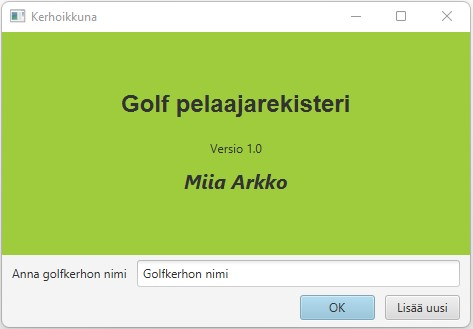
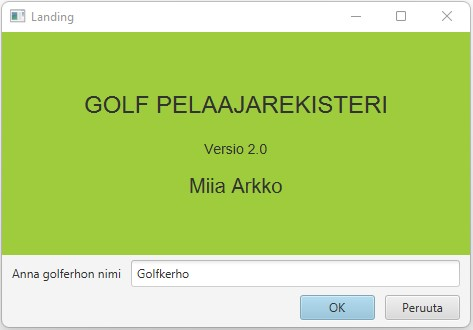
Lisatty .dat tiedostot seka kuva

diff --git a/src/fxKerho/muokkaajasen.css b/src/fxKerho/muokkaajasen.css
@@ -1,0 +1,1 @@
+/* JavaFX CSS - Leave this comment until you have at least create one rule which uses -fx-Property */

diff --git a/src/fxKerho/landing.css b/src/fxKerho/landing.css
@@ -1,0 +1,3 @@
+.vaaleaVihrea {
+	-fx-background-color: #9FCC3D;
+}

diff --git a/src/fxKerho/MuokkaaJasenMain.java b/src/fxKerho/MuokkaaJasenMain.java
@@ -1,0 +1,38 @@
+package fxKerho;
+
+import javafx.application.Application;
+import javafx.stage.Stage;
+import javafx.scene.Scene;
+import javafx.scene.layout.Pane;
+import javafx.fxml.FXMLLoader;
+
+
+/**
+ * @author miiaa
+ * @version 31.1.2023
+ *
+ */
+public class MuokkaaJasenMain extends Application {
+    @Override
+    public void start(Stage primaryStage) {
+        try {
+            FXMLLoader ldr = new FXMLLoader(getClass().getResource("MuokkaaJasenGUIView.fxml"));
+            final Pane root = ldr.load();
+            //final MuokkaaJasenGUIController muokkaajasenCtrl = (MuokkaaJasenGUIController) ldr.getController();
+            Scene scene = new Scene(root);
+            scene.getStylesheets().add(getClass().getResource("muokkaajasen.css").toExternalForm());
+            primaryStage.setScene(scene);
+            primaryStage.setTitle("MuokkaaJasen");
+            primaryStage.show();
+        } catch(Exception e) {
+            e.printStackTrace();
+        }
+    }
+
+    /**
+     * @param args Ei kaytossa
+     */
+    public static void main(String[] args) {
+        launch(args);
+    }
+}

diff --git a/src/fxKerho/LandingMain.java b/src/fxKerho/LandingMain.java
@@ -1,0 +1,38 @@
+package fxKerho;
+
+import javafx.application.Application;
+import javafx.stage.Stage;
+import javafx.scene.Scene;
+import javafx.scene.layout.Pane;
+import javafx.fxml.FXMLLoader;
+
+
+/**
+ * @author Miia Arkko
+ * @version 31.1.2023
+ *
+ */
+public class LandingMain extends Application {
+    @Override
+    public void start(Stage primaryStage) {
+        try {
+            FXMLLoader ldr = new FXMLLoader(getClass().getResource("LandingGUIView.fxml"));
+            final Pane root = ldr.load();
+            //final LandingGUIController landingCtrl = (LandingGUIController) ldr.getController();
+            Scene scene = new Scene(root);
+            scene.getStylesheets().add(getClass().getResource("landing.css").toExternalForm());
+            primaryStage.setScene(scene);
+            primaryStage.setTitle("Landing");
+            primaryStage.show();
+        } catch(Exception e) {
+            e.printStackTrace();
+        }
+    }
+
+    /**
+     * @param args Ei kaytossa
+     */
+    public static void main(String[] args) {
+        launch(args);
+    }
+}

diff --git a/src/fxKerho/LandingGUIController.java b/src/fxKerho/LandingGUIController.java
@@ -1,0 +1,39 @@
+package fxKerho;
+
+import javafx.event.ActionEvent;
+import javafx.fxml.FXML;
+import javafx.scene.control.TextField;
+import java.io.IOException;
+import java.net.URL;
+import java.util.ResourceBundle;
+import javafx.fxml.FXML;
+import javafx.fxml.FXMLLoader;
+import javafx.fxml.Initializable;
+import javafx.scene.Parent;
+import javafx.scene.Scene;
+import javafx.scene.control.TextField;
+import javafx.stage.Modality;
+import javafx.stage.Stage;
+
+public class LandingGUIController {
+
+    @FXML
+    private TextField textVastaus;
+
+    /**
+     * Peruuta-painikkeen tapahtumakäsittelijä
+     * @param event tapahtuma
+     */
+    @FXML void handleCancel(ActionEvent event) {
+        //
+    }
+
+    /**
+     * OK-painikkeen tapahtumakäsittelijä
+     * @param event tapahtuma
+     */
+    @FXML void handleOK(ActionEvent event) {
+        //
+    }
+
+}

diff --git a/src/fxKerho/MuokkaaJasenGUIController.java b/src/fxKerho/MuokkaaJasenGUIController.java
@@ -1,0 +1,10 @@
+package fxKerho;
+
+/**
+ * @author miiaa
+ * @version 31.1.2023
+ *
+ */
+public class MuokkaaJasenGUIController {
+      // TODO
+}
